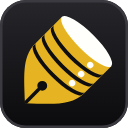
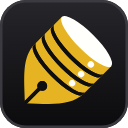
chore: Split the nib's point and center the disks' lights
The slit ended in a round cap short of the point; it now runs through it,
splitting the point into two tines. The gold is cut under the grooves, slit
and hole so no gold rim shows at their edges, and each light sits in the
middle of its disk's visible face.

Claude-Session: https://claude.ai/code/session_01BXxxyWXz4Rjne6pSy1tMXN

diff --git a/docs/brand.md b/docs/brand.md
@@ -206,7 +206,7 @@ so no viewer needs the font.
 |---|---|
 | Frame | 512 grid, corner radius 104, a 10-unit edge inside the square |
 | Pen | 45°; its bounding box is 69% of the frame; its area centroid sits on the frame's center |
-| Pen body | A cylinder of radius 120 (lid ellipse 120 × 32) holding three 44-unit disks, divided by 13-unit black grooves — each the band between two parallel arcs, so its ends stand on the cylinder's sides as it turns out of sight; each disk's light has radius 11, at 55% of the radius to the right |
+| Pen body | A cylinder of radius 120 (lid ellipse 120 × 32) holding three 44-unit disks, divided by 13-unit black grooves — each the band between two parallel arcs, so its ends stand on the cylinder's sides as it turns out of sight; each disk's light has radius 11, at 55% of the radius to the right, centered in the disk's visible face; the slit runs through the point, splitting it into two tines |
 | Lockup | The wordmark's capitals stand 52% of the icon's height, a quarter of that height from it |
 | Social preview | 1280 × 640; the pen 330 units wide; wordmark capitals 84, tagline capitals 34 |
 
